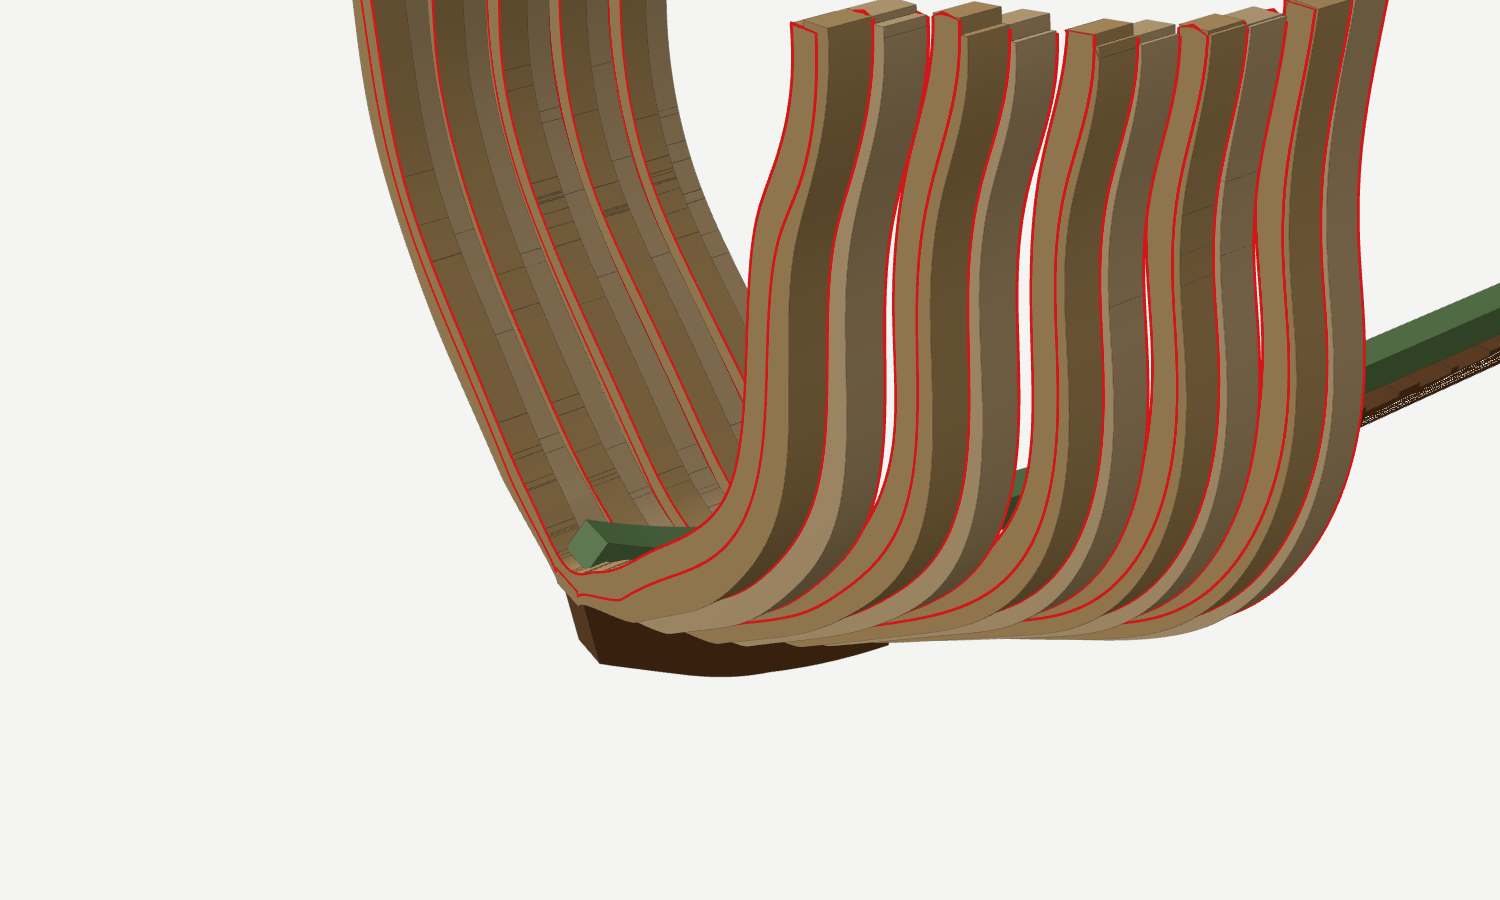
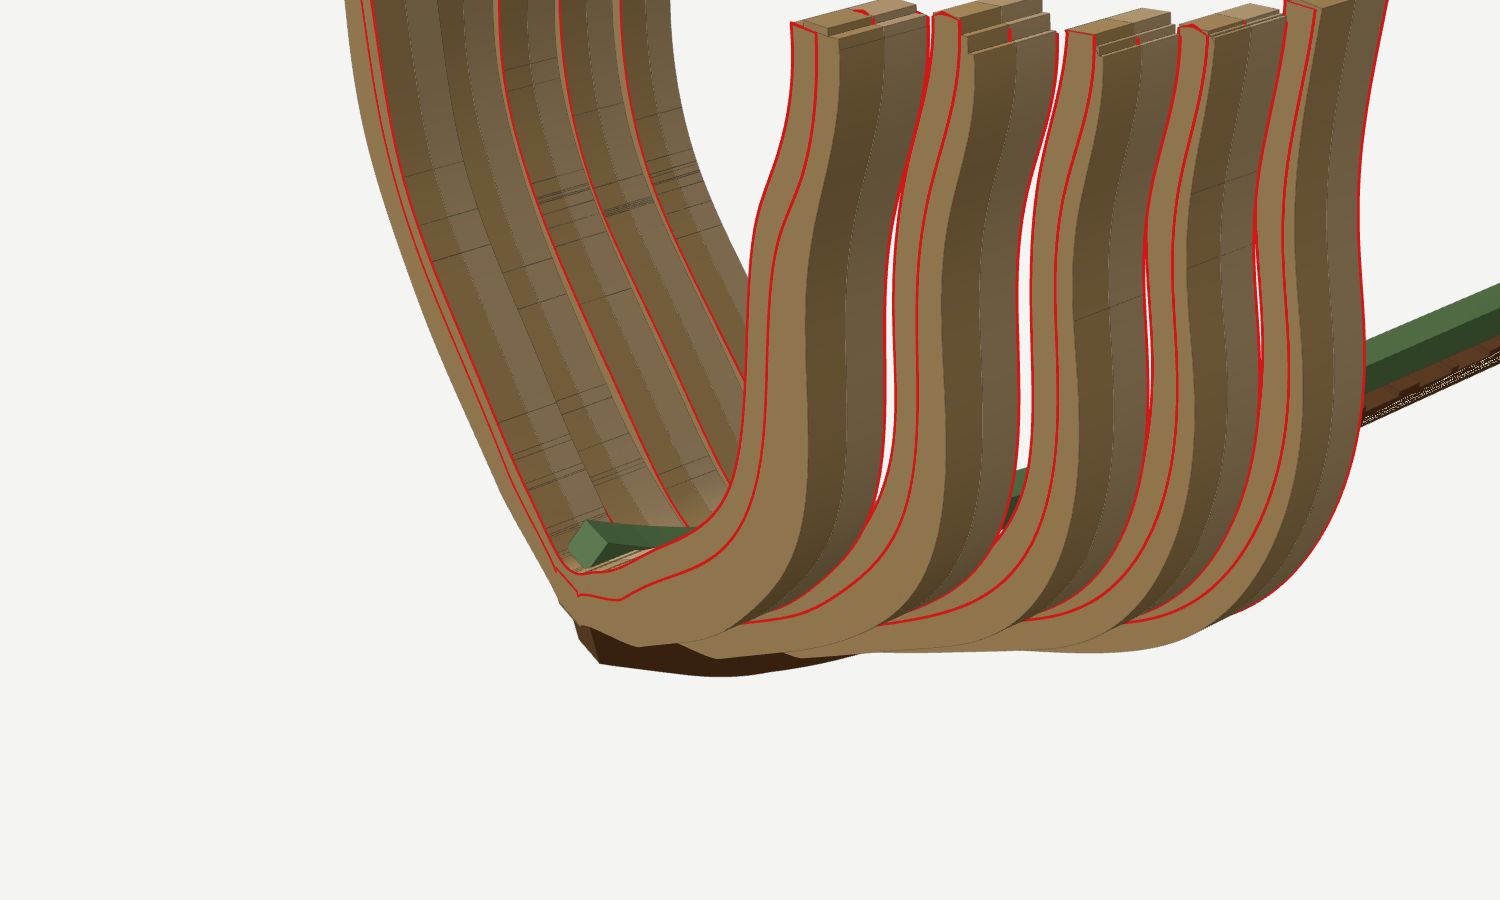
Blanks: one common cut outline for A and F, laser marks, no step between layers
Claude-Session: https://claude.ai/code/session_017HV2YHL4JdRTKuYXk76aAy

diff --git a/royal_caroline/py/build3d_blanks.py b/royal_caroline/py/build3d_blanks.py
@@ -40,15 +40,14 @@ def full(half):
 parts=np.load('/tmp/claude-0/x/parts3d.npy',allow_pickle=True).item(); out={k:v for k,v in parts.items() if not k.startswith('FRAME')}
 lines=[]
 for b in FR:
-    xc=F.XF[46-b-1]
+    xc=F.XF[46-b-1]; fm,im=F.face_poly(xc-4,xc-4); fc,ic=F.face_poly(xc,xc); fp,ip=F.face_poly(xc+4,xc+4)
+    env=unary_union([fm.buffer(0.01),fc.buffer(0.01),fp.buffer(0.01)]).buffer(-0.01)      # ONE common cut outline for A and F: inner minimum .. outer maximum over the three faces
+    floor=min(im['keel_top'],ic['keel_top'],ip['keel_top'])-DEPTH; env=unary_union([env,box(0,floor,F.KB,max(im['keel_top'],ic['keel_top'],ip['keel_top']))])
+    blank=full(env)
     for lay,(x0,x1) in (('A',(xc-4,xc)),('F',(xc,xc+4))):
-        fa,ia=F.face_poly(x0,x0); fb,ib=F.face_poly(x1,x1)
-        env=unary_union([fa.buffer(0.01),fb.buffer(0.01)]).buffer(-0.01)
-        # flat tab: ONE horizontal floor at the lower of the two final floors, tab walls vertical; flat seat at the keelson = the higher of the two (already the union top at the centre)
-        floor=min(ia['keel_top'],ib['keel_top'])-DEPTH; env=unary_union([env,box(0,floor,F.KB,max(ia['keel_top'],ib['keel_top']))])
-        blank=full(env); out['FRAME%02d_%s'%(b,lay)]=dict(v=None,t=None,blank=True)
         v,t=mesh_of(prism_x(blank,x0,x1)); out['FRAME%02d_%s'%(b,lay)]=dict(v=v,t=t)
-        for X,hp,sign in ((x0,fa,-1),(x1,fb,1)):
-            r=np.array(full(hp).exterior.coords); lines.append(dict(name='LASER%02d_%s_%s'%(b,lay,'back' if sign<0 else 'front'),pts=np.c_[np.full(len(r),X+sign*0.03),r[:,0],r[:,1]].round(3).tolist()))
-        print('frame',b,lay,'blank area %.0f mm2; floor %.2f (final floors %.2f / %.2f), seat %.2f / %.2f'%(blank.area,floor,ia['keel_top']-DEPTH,ib['keel_top']-DEPTH,ia['ks_bot'],ib['ks_bot']))
+    for X,hp,nm in ((xc-4,fm,'back'),(xc+4,fp,'front')):
+        r=np.array(full(hp).exterior.coords); sg=-1 if nm=='back' else 1; lines.append(dict(name='LASER%02d_%s'%(b,nm),pts=np.c_[np.full(len(r),X+sg*0.03),r[:,0],r[:,1]].round(3).tolist()))
+    lm=full(fc); r=np.array(lm.exterior.coords); lines.append(dict(name='LASER%02d_mid'%b,pts=np.c_[np.full(len(r),xc),r[:,0],r[:,1]].round(3).tolist()))
+    print('frame',b,'common blank area %.0f mm2 (final faces %.0f / %.0f / %.0f); floor %.2f; seats %.2f / %.2f / %.2f'%(blank.area,full(fm).area,full(fc).area,full(fp).area,floor,im['ks_bot'],ic['ks_bot'],ip['ks_bot']))
 np.save('/tmp/claude-0/x/parts_blanks.npy',dict(parts=out,lines=lines),allow_pickle=True)

diff --git a/royal_caroline/STATE.md b/royal_caroline/STATE.md
@@ -304,3 +304,5 @@ Working rules are in `royal_caroline/CLAUDE.md`; read them first.
 - 2026-11-06 ALL 45 frames 2D on the new keel/keelson (NOSTEP, pocket 1 mm, inner line smoothed): py/frames_all_2d.py -> qa/frame_allowance_*.png (9 sheets). 3D: py/build3d_v2.py (frames 1-45 + keel + keelson meshes) -> rhino/RoyalCaroline_frames1-45_keel_keelson_v2.3dm, renders qa/render3d/n1-n5. Allowance max 2.35 mm keelson / 3.23 keel (frame 1), 37 of 90 layers < 0.1 mm both. Frames 44-45 and the stern end: keel/keelson built from X=45.
 
 - 2026-11-06 builder wants frames BEFORE sanding: flat-cut blanks (straight 4 mm prisms covering both faces, one horizontal floor / seat line at the keel and keelson, extra wood both sides) with red laser lines = the final face outlines. `py/build3d_blanks.py 1 2 3 4 5`, `py/render3d_blanks.py` -> qa/render3d/b1-b4. Builder frames 1-5 only (5 per round).
+
+- 2026-11-06 blanks v2: A and F share ONE common cut outline (envelope of the faces X-4, X, X+4: inner minimum .. outer maximum, one horizontal tab floor), glued first, sanded after; laser marks on the back (X-4), middle (X) and front (X+4) final outlines. py/build3d_blanks.py 1 2 3 4 5. Excess area vs final face 55-100 percent at the bow because the hull flares across the 8 mm.
